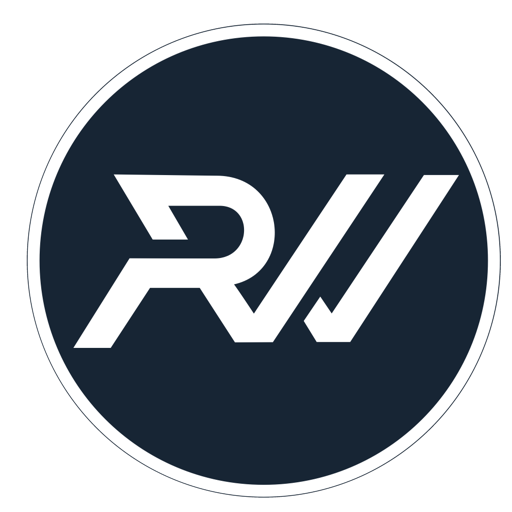
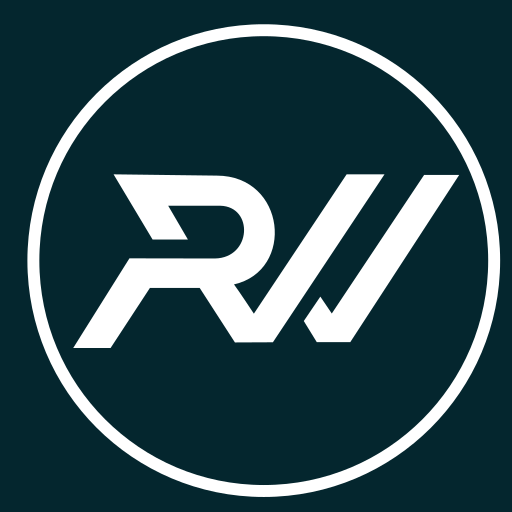
Дизайн-элевация (волна 2): per-page полировка + растры под Coastal Twilight
Follow-up к редизайну #113 — переносит отложенные элевации на текущую main.

Страницы/компоненты (10):
- project-card / estate-card / district-card: премиум-шелл как у object-card
  (lift -translate-y-1.5 + шёлковый easing + cover-зум 1.08/1.2s, motion-reduce-guards)
- projects-index / estates-index / listings: канон <SectionEyebrow> (hairline) вместо raw-eyebrow
- districts / knowledge: closing-CTA → <Reveal> + <SectionEyebrow> + макро-воздух py-24 md:py-32
- land-estate-landing: dark hero-eyebrow → <SectionEyebrow tone="dark">
- contact / ru-contact: панель формы shadow-soft, hover-lift на каналах связи

Растры под новую палитру (ink #04262E + белая монограмма):
- favicon.ico, icon-32/192/512.png, apple-touch-icon.png — перерендер из
  перекрашенного brand/avatar_1024.svg (scripts/gen-brand-rasters.mjs, sharp)

typecheck ✓ · lint ✓ · adversarial design-review (10 агентов) — 0 блокеров

diff --git a/src/app/ru/contact/page.tsx b/src/app/ru/contact/page.tsx
@@ -46,7 +46,7 @@ export default function RussianContactPage() {
               href={whatsappLink("Здравствуйте — хочу узнать про объекты на Пангане.")}
               target="_blank"
               rel="noopener noreferrer"
-              className="flex items-center gap-3 rounded-sm border border-forest-500/10 bg-cream-50 p-4 transition-colors hover:border-forest-500/30"
+              className="flex items-center gap-3 rounded-sm border border-forest-500/10 bg-cream-50 p-4 transition-all duration-300 ease-[cubic-bezier(0.22,1,0.36,1)] hover:-translate-y-0.5 hover:border-forest-500/30 hover:shadow-soft motion-reduce:hover:translate-y-0"
             >
               <MessageCircle className="h-5 w-5 text-forest-500" />
               <span className="text-sm text-forest-900">WhatsApp · {phoneDisplay()}</span>
@@ -55,21 +55,21 @@ export default function RussianContactPage() {
               href={telegramDmLink()}
               target="_blank"
               rel="noopener noreferrer"
-              className="flex items-center gap-3 rounded-sm border border-forest-500/10 bg-cream-50 p-4 transition-colors hover:border-forest-500/30"
+              className="flex items-center gap-3 rounded-sm border border-forest-500/10 bg-cream-50 p-4 transition-all duration-300 ease-[cubic-bezier(0.22,1,0.36,1)] hover:-translate-y-0.5 hover:border-forest-500/30 hover:shadow-soft motion-reduce:hover:translate-y-0"
             >
               <Send className="h-5 w-5 text-forest-500" />
               <span className="text-sm text-forest-900">Telegram</span>
             </a>
             <a
               href={telLink()}
-              className="flex items-center gap-3 rounded-sm border border-forest-500/10 bg-cream-50 p-4 transition-colors hover:border-forest-500/30"
+              className="flex items-center gap-3 rounded-sm border border-forest-500/10 bg-cream-50 p-4 transition-all duration-300 ease-[cubic-bezier(0.22,1,0.36,1)] hover:-translate-y-0.5 hover:border-forest-500/30 hover:shadow-soft motion-reduce:hover:translate-y-0"
             >
               <Phone className="h-5 w-5 text-forest-500" />
               <span className="text-sm text-forest-900">Позвонить · {phoneDisplay()}</span>
             </a>
             <a
               href={`mailto:${siteConfig.contact.email}`}
-              className="flex items-center gap-3 rounded-sm border border-forest-500/10 bg-cream-50 p-4 transition-colors hover:border-forest-500/30"
+              className="flex items-center gap-3 rounded-sm border border-forest-500/10 bg-cream-50 p-4 transition-all duration-300 ease-[cubic-bezier(0.22,1,0.36,1)] hover:-translate-y-0.5 hover:border-forest-500/30 hover:shadow-soft motion-reduce:hover:translate-y-0"
             >
               <Mail className="h-5 w-5 text-forest-500" />
               <span className="text-sm text-forest-900">{siteConfig.contact.email}</span>

diff --git a/src/app/districts/page.tsx b/src/app/districts/page.tsx
@@ -4,6 +4,8 @@ import Image from "next/image";
 import type { Route } from "next";
 import { ArrowRight } from "lucide-react";
 import { PageHero } from "@/components/sections/page-hero";
+import { SectionEyebrow } from "@/components/sections/section-eyebrow";
+import { Reveal } from "@/components/sections/reveal";
 import { DISTRICTS, DISTRICT_COORDS, districtHasHero } from "@/content/districts";
 import { DistrictsMap } from "@/components/districts/districts-map";
 import type { DistrictPoint } from "@/components/districts/districts-map-leaflet";
@@ -72,7 +74,7 @@ export default async function DistrictsPage() {
               <Link
                 key={d.slug}
                 href={`/districts/${d.slug}` as Route}
-                className="group flex flex-col overflow-hidden rounded-sm border border-forest-500/10 bg-cream-50 transition-all hover:border-forest-500/30 hover:shadow-lg"
+                className="group flex flex-col overflow-hidden rounded-sm border border-forest-500/10 bg-cream-50 card-elevated transition-all duration-500 ease-[cubic-bezier(0.22,1,0.36,1)] hover:-translate-y-1.5 hover:border-forest-500/30 hover:shadow-2xl hover:shadow-panel/15 motion-reduce:hover:translate-y-0"
               >
                 <div className="relative aspect-[16/9] overflow-hidden bg-panel">
                   {districtHasHero(d.slug) ? (
@@ -81,7 +83,7 @@ export default async function DistrictsPage() {
                       alt={`${name}, Koh Phangan`}
                       fill
                       sizes="(min-width: 768px) 50vw, 100vw"
-                      className="object-cover transition-transform duration-700 group-hover:scale-105"
+                      className="object-cover transition-transform duration-[1.2s] ease-[cubic-bezier(0.22,1,0.36,1)] group-hover:scale-[1.08] motion-reduce:group-hover:scale-100"
                     />
                   ) : null}
                   <div
@@ -111,9 +113,10 @@ export default async function DistrictsPage() {
       </section>
 
       <section className="border-t border-forest-500/10 bg-cream-200/30">
-        <div className="container-prose py-16 md:py-20">
-          <div className="max-w-2xl">
-            <h2 className="font-serif text-3xl text-forest-900 md:text-4xl">
+        <div className="container-prose py-24 md:py-32">
+          <Reveal className="max-w-2xl">
+            <SectionEyebrow>Find your fit</SectionEyebrow>
+            <h2 className="mt-3 font-serif text-3xl text-forest-900 md:text-4xl">
               Not sure which district fits?
             </h2>
             <p className="mt-4 text-lg text-forest-500/70">
@@ -131,7 +134,7 @@ export default async function DistrictsPage() {
                 <ArrowRight className="h-4 w-4" />
               </Link>
             </div>
-          </div>
+          </Reveal>
         </div>
       </section>
     </>

diff --git a/src/app/knowledge/page.tsx b/src/app/knowledge/page.tsx
@@ -2,6 +2,8 @@ import type { Metadata } from "next";
 import Link from "next/link";
 import { ArrowRight } from "lucide-react";
 import { PageHero } from "@/components/sections/page-hero";
+import { SectionEyebrow } from "@/components/sections/section-eyebrow";
+import { Reveal } from "@/components/sections/reveal";
 import { KnowledgeBrowser } from "@/components/knowledge/knowledge-browser";
 import { KB_ARTICLES } from "@/content/knowledge-base";
 
@@ -49,9 +51,10 @@ export default function KnowledgePage() {
       </section>
 
       <section className="border-t border-forest-500/10 bg-cream-200/30">
-        <div className="container-prose py-16 md:py-20">
-          <div className="max-w-2xl">
-            <h2 className="font-serif text-3xl text-forest-900 md:text-4xl">
+        <div className="container-prose py-24 md:py-32">
+          <Reveal className="max-w-2xl">
+            <SectionEyebrow>Still curious</SectionEyebrow>
+            <h2 className="mt-3 font-serif text-3xl text-forest-900 md:text-4xl">
               Have a question we haven&rsquo;t covered?
             </h2>
             <p className="mt-4 text-lg text-forest-500/70">
@@ -69,7 +72,7 @@ export default function KnowledgePage() {
                 <ArrowRight className="h-4 w-4" />
               </Link>
             </div>
-          </div>
+          </Reveal>
         </div>
       </section>
     </>

diff --git a/src/components/projects/project-card.tsx b/src/components/projects/project-card.tsx
@@ -35,7 +35,7 @@ export function ProjectCard({ project, href, availability }: Props) {
   return (
     <Link
       href={href as Route}
-      className="group flex h-full flex-col overflow-hidden rounded-sm border border-forest-500/10 bg-cream-50 card-elevated transition-all hover:border-forest-500/30 hover:shadow-lg"
+      className="group flex h-full flex-col overflow-hidden rounded-sm border border-forest-500/10 bg-cream-50 card-elevated transition-all duration-500 ease-[cubic-bezier(0.22,1,0.36,1)] hover:-translate-y-1.5 hover:border-forest-500/30 hover:shadow-2xl hover:shadow-panel/15 motion-reduce:hover:translate-y-0"
     >
       <div
         className="relative aspect-[16/10] overflow-hidden bg-forest-500/5"
@@ -53,7 +53,7 @@ export function ProjectCard({ project, href, availability }: Props) {
             alt={project.titleEn}
             fill
             sizes="(min-width: 1024px) 33vw, (min-width: 640px) 50vw, 100vw"
-            className="object-cover transition-transform duration-500 group-hover:scale-105"
+            className="object-cover transition-transform duration-[1.2s] ease-[cubic-bezier(0.22,1,0.36,1)] group-hover:scale-[1.08] motion-reduce:group-hover:scale-100"
           />
         ) : (
           <div className="absolute inset-0 flex items-center justify-center text-forest-500/25">

diff --git a/src/components/estates/estate-card.tsx b/src/components/estates/estate-card.tsx
@@ -31,7 +31,7 @@ export function EstateCard({ estate, href, locale }: Props) {
   return (
     <Link
       href={href as Route}
-      className="group flex h-full flex-col overflow-hidden rounded-sm border border-forest-500/10 bg-cream-50 transition-all hover:border-forest-500/30 hover:shadow-lg"
+      className="group flex h-full flex-col overflow-hidden rounded-sm border border-forest-500/10 bg-cream-50 card-elevated transition-all duration-500 ease-[cubic-bezier(0.22,1,0.36,1)] hover:-translate-y-1.5 hover:border-forest-500/30 hover:shadow-2xl hover:shadow-panel/15 motion-reduce:hover:translate-y-0"
     >
       <div
         className="relative aspect-[16/10] overflow-hidden bg-forest-500/5"
@@ -50,7 +50,7 @@ export function EstateCard({ estate, href, locale }: Props) {
             fill
             unoptimized
             sizes="(min-width: 1024px) 33vw, (min-width: 640px) 50vw, 100vw"
-            className="object-cover transition-transform duration-500 group-hover:scale-105"
+            className="object-cover transition-transform duration-[1.2s] ease-[cubic-bezier(0.22,1,0.36,1)] group-hover:scale-[1.08] motion-reduce:group-hover:scale-100"
           />
         ) : (
           <div className="absolute inset-0 flex items-center justify-center text-forest-500/25">

diff --git a/src/components/estates/land-estate-landing.tsx b/src/components/estates/land-estate-landing.tsx
@@ -11,6 +11,7 @@ import { formatPriceCompact } from "@/lib/utils/price";
 import { EstateExplorer } from "./estate-explorer";
 import { EstateSectionNav, type NavSection } from "./estate-section-nav";
 import { EstateCard } from "./estate-card";
+import { SectionEyebrow } from "@/components/sections/section-eyebrow";
 import { EstateLeadGallery } from "./estate-lead-gallery";
 import { EstatePrintButton } from "./estate-print-button";
 import { DistanceChips } from "@/components/objects/distance-chips";
@@ -100,9 +101,9 @@ export function LandEstateLanding({ estate, locale, initialLot }: Props) {
               <span className="text-brass-200">· {fromLabel} {formatPriceCompact(priceFrom)}</span>
             ) : null}
           </div>
-          <p className="mt-3 text-xs font-medium uppercase tracking-[0.3em] text-brass-300">
+          <SectionEyebrow tone="dark" className="mt-3">
             {t.eyebrow}
-          </p>
+          </SectionEyebrow>
           <h1 className="mt-2 max-w-3xl text-balance text-cream-50">{estate.name[locale]}</h1>
           <p className="mt-3 max-w-2xl text-lg leading-relaxed text-cream-100/85">
             {estate.tagline[locale]}

diff --git a/src/app/listings/page.tsx b/src/app/listings/page.tsx
@@ -7,6 +7,7 @@ import { ListingsEmpty } from "@/components/objects/listings-empty";
 import { ListingsSplit } from "@/components/objects/listings-split";
 import { NlSearch } from "@/components/objects/nl-search";
 import { RecentlyViewed } from "@/components/objects/recently-viewed";
+import { SectionEyebrow } from "@/components/sections/section-eyebrow";
 import {
   parseListingsSearchParams,
   makeFilterPredicate,
@@ -54,9 +55,7 @@ export default async function ListingsPage({ searchParams }: PageProps) {
       <link rel="preconnect" href="https://a.basemaps.cartocdn.com" crossOrigin="" />
       <link rel="dns-prefetch" href="https://b.basemaps.cartocdn.com" />
       <ItemListJsonLd name="Koh Phangan property listings — Right Way" objects={sorted} />
-      <p className="text-xs font-medium uppercase tracking-[0.3em] text-brass-500">
-        Listings
-      </p>
+      <SectionEyebrow>Listings</SectionEyebrow>
       <h1 className="mt-3 max-w-3xl text-balance scroll-mt-24">
         Every active property on Phangan.
       </h1>

diff --git a/src/components/projects/projects-index.tsx b/src/components/projects/projects-index.tsx
@@ -5,6 +5,7 @@ import { getProjectsDict } from "@/lib/i18n/dictionaries";
 import { localePath } from "@/lib/i18n/locale-path";
 import { ProjectCard } from "./project-card";
 import { Appear } from "@/components/motion/appear";
+import { SectionEyebrow } from "@/components/sections/section-eyebrow";
 
 /** Shared index grid for /projects and /ru/projects. */
 export async function ProjectsIndex({ locale }: { locale: Locale }) {
@@ -14,7 +15,7 @@ export async function ProjectsIndex({ locale }: { locale: Locale }) {
 
   return (
     <section className="container-prose py-10 md:py-14 aura">
-      <p className="text-xs font-medium uppercase tracking-[0.3em] text-brass-500">{t.eyebrow}</p>
+      <SectionEyebrow>{t.eyebrow}</SectionEyebrow>
       <h1 className="mt-3 max-w-3xl text-balance">{t.indexTitle}</h1>
       <p className="mt-3 max-w-2xl text-base text-forest-500/70">{t.indexLede}</p>
       <p className="mt-2 text-sm text-forest-500/55">{t.count(projects.length)}</p>

diff --git a/src/components/estates/estates-index.tsx b/src/components/estates/estates-index.tsx
@@ -4,6 +4,7 @@ import { getEstatesDict } from "@/lib/i18n/dictionaries";
 import { localePath } from "@/lib/i18n/locale-path";
 import { EstateCard } from "./estate-card";
 import { Appear } from "@/components/motion/appear";
+import { SectionEyebrow } from "@/components/sections/section-eyebrow";
 
 /** Общая индекс-сетка для /estates и /ru/estates. */
 export function EstatesIndex({ locale }: { locale: Locale }) {
@@ -12,7 +13,7 @@ export function EstatesIndex({ locale }: { locale: Locale }) {
 
   return (
     <section className="container-prose py-10 md:py-14">
-      <p className="text-xs font-medium uppercase tracking-[0.3em] text-brass-500">{t.eyebrow}</p>
+      <SectionEyebrow>{t.eyebrow}</SectionEyebrow>
       <h1 className="mt-3 max-w-3xl text-balance">{t.indexTitle}</h1>
       <p className="mt-3 max-w-2xl text-base text-forest-500/70">{t.indexLede}</p>
       <p className="mt-2 text-sm text-forest-500/55">{t.count(estates.length)}</p>

diff --git a/src/app/contact/page.tsx b/src/app/contact/page.tsx
@@ -49,7 +49,7 @@ export default async function ContactPage({ searchParams }: PageProps) {
       <section className="container-prose py-16 md:py-24">
       <div className="grid gap-12 lg:grid-cols-[1fr_320px] lg:gap-16">
         {/* Left: form */}
-        <div className="rounded-sm border border-forest-500/10 bg-cream-50 p-6 md:p-8">
+        <div className="rounded-sm border border-forest-500/10 bg-cream-50 p-6 shadow-soft md:p-8">
           <LeadForm source="contact" layout="block" defaultMessage={brief} />
         </div>
 
